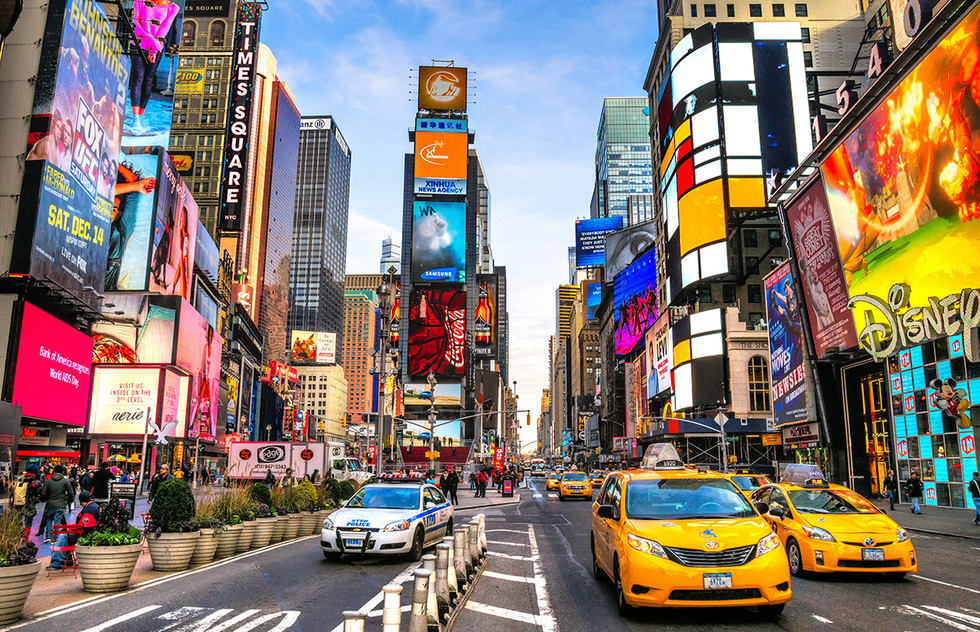
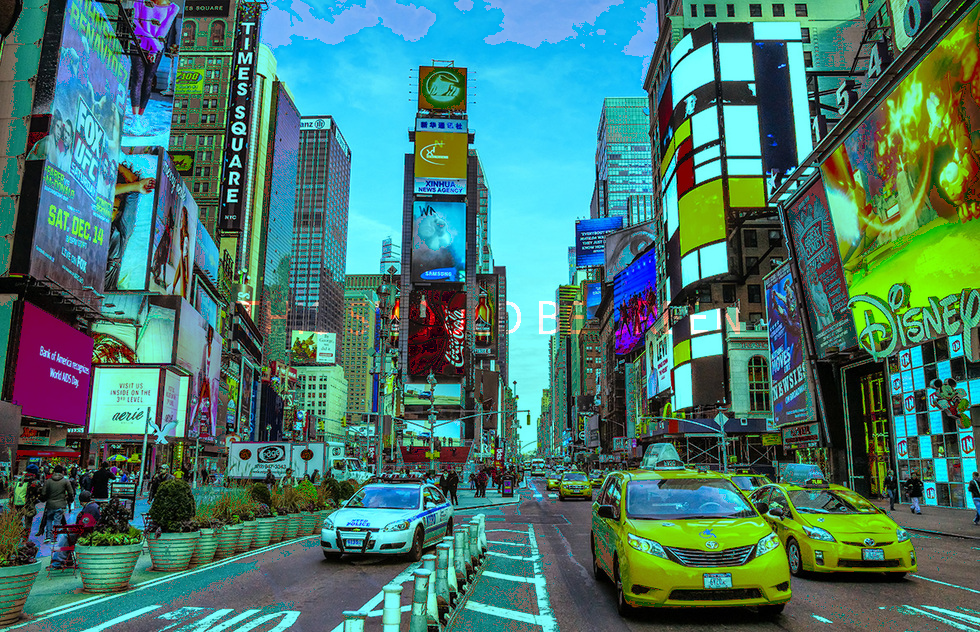
got regular image encoding working

diff --git a/WORKLOG.md b/WORKLOG.md
@@ -37,6 +37,11 @@ CW: out of class for trip
 
 HW: started working on regular image encode, got encryption working with a pic of nyc on green plane 0
 
+### 2024-06-03
+CW: got regular image encode working but tints the modified image a bit, need to fix so looks identical to original
+
+HW:
+
 ## GROUP MEMBER 2: Timothy Young
 
 ### 2024-05-22
